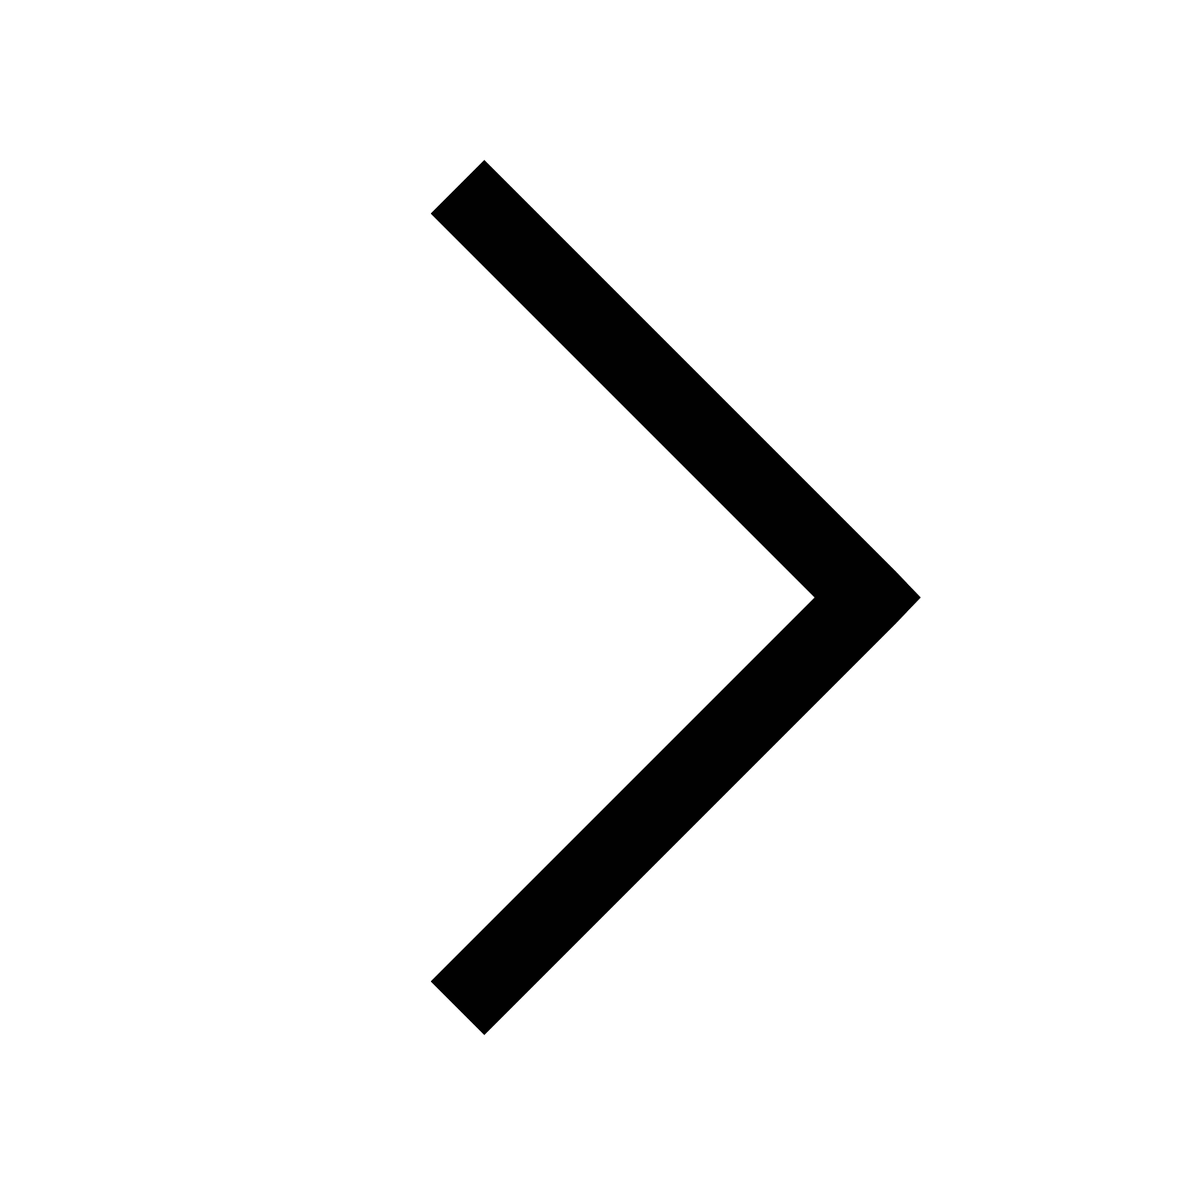
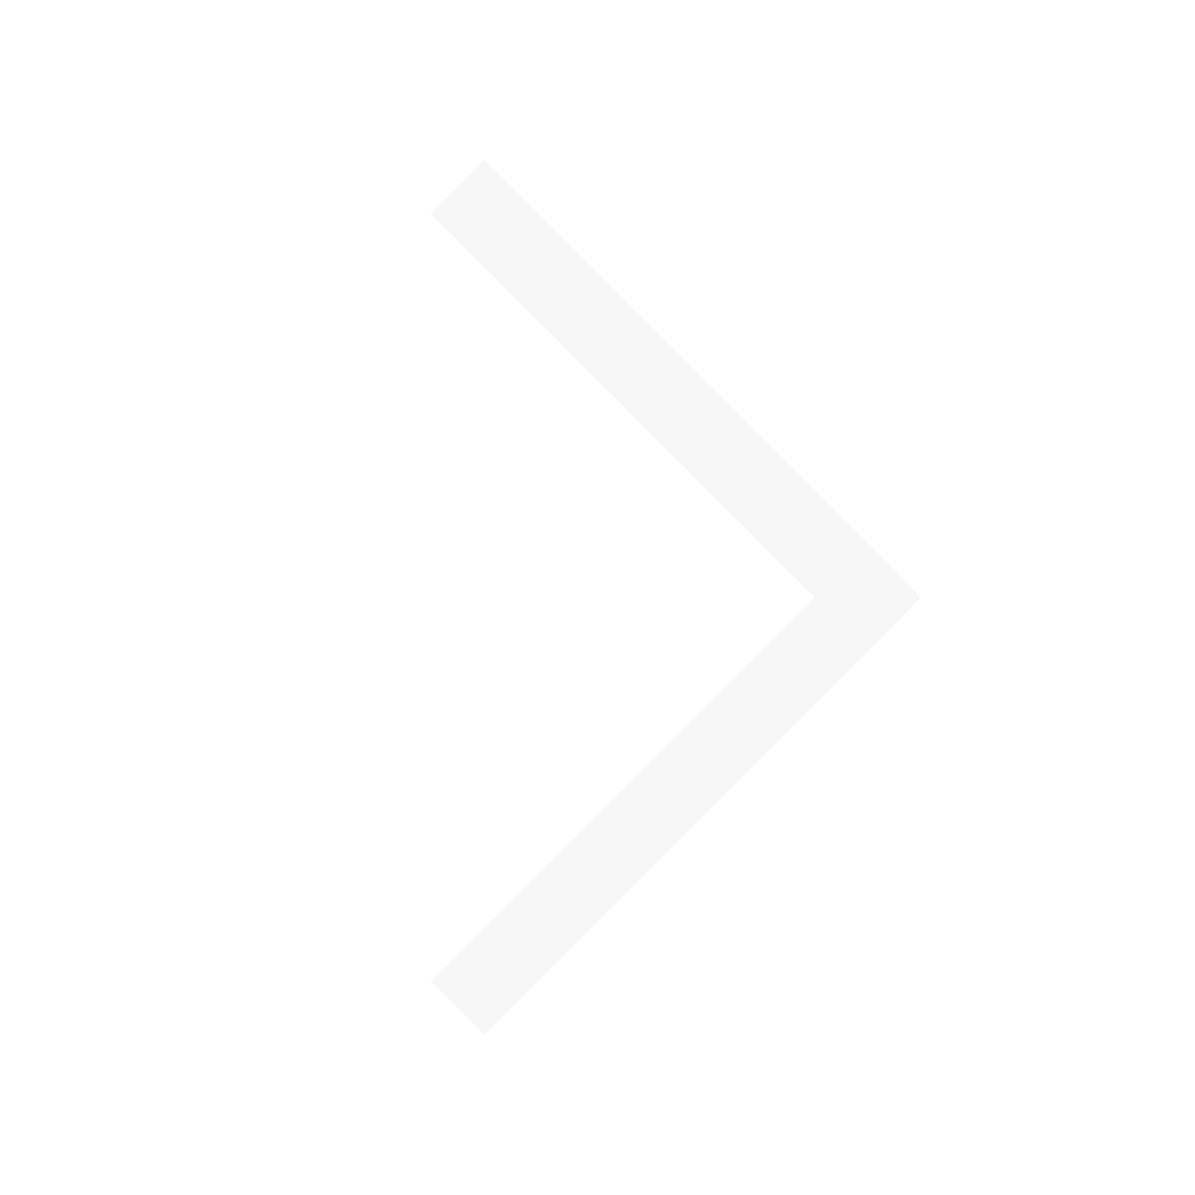
light theme to dark theme

Changed region(s): [[0.3438, 0.125, 0.7812, 0.875]]

diff --git a/src/main/java/dev/serenity/ui/clickgui/element/module/setting/impl/ModeElement.java b/src/main/java/dev/serenity/ui/clickgui/element/module/setting/impl/ModeElement.java
@@ -26,20 +26,20 @@ public class ModeElement extends SettingElement {
         float x1 = right - 60F - Fonts.font20.getStringWidth(StringUtils.findLongestString(modeSetting.modes));
         float x2 = right - 30F;
 
-        Color backgroundColor = new Color(251, 251, 253);
+        Color backgroundColor = new Color(43, 43, 43);
         if (HoveringUtils.isHovering(mouseX, mouseY, left, top, right, y2)) {
-            backgroundColor = new Color(245, 246, 249);
+            backgroundColor = new Color(50, 50, 50);
         }
 
-        RenderUtils.drawRoundedRectWithBorder(left, top, right, y2, 3F, backgroundColor.getRGB(), new Color(225, 230, 234).getRGB(), 0.5F);
+        RenderUtils.drawRoundedRect(left - 0.5F, top - 0.5F, right + 0.5F, y2 + 0.5F, 3F, backgroundColor.getRGB());
 
-        Fonts.font20.drawString(setting.name, left + 15F, (top + y2) / 2 - Fonts.font20.FONT_HEIGHT / 2F + 2F, new Color(26, 27, 27).getRGB());
+        Fonts.font20.drawString(setting.name, left + 15F, (top + y2) / 2 - Fonts.font20.FONT_HEIGHT / 2F + 2F, new Color(255, 255, 255).getRGB());
 
         if (!expanded) {
-            Color accentColor = HoveringUtils.isHovering(mouseX, mouseY, x1, (top + y2) / 2 - 10F, x2 , (top + y2) / 2 + 10F) ? new Color(250, 251, 251) : new Color(254, 254, 254);
+            Color accentColor = HoveringUtils.isHovering(mouseX, mouseY, x1, (top + y2) / 2 - 10F, x2 , (top + y2) / 2 + 10F) ? new Color(60, 60, 60) : new Color(55, 55, 55);
 
-            RenderUtils.drawRoundedRectWithBorder(x1, (top + y2) / 2 - 10F, x2 , (top + y2) / 2 + 10F, 4F, accentColor.getRGB(), new Color(236, 236, 238).getRGB(), 0.75F);
-            Fonts.font20.drawString(modeSetting.getCurrentMode(), x1 + 5F, (top + y2) / 2 - Fonts.font20.FONT_HEIGHT / 2F + 2F , new Color(27, 27, 27).getRGB());
+            RenderUtils.drawRoundedRectWithBorder(x1, (top + y2) / 2 - 10F, x2 , (top + y2) / 2 + 10F, 4F, accentColor.getRGB(), new Color(58, 58, 58).getRGB(), 0.75F);
+            Fonts.font20.drawString(modeSetting.getCurrentMode(), x1 + 5F, (top + y2) / 2 - Fonts.font20.FONT_HEIGHT / 2F + 2F , new Color(255, 255, 255).getRGB());
             RenderUtils.drawImage(location, right - 50F, (top + y2) / 2 - 5F, 10F, 10F);
 
             this.settingHeight = 45F;
@@ -49,19 +49,19 @@ public class ModeElement extends SettingElement {
             float top2 = startY - 7F;
             float bottom2 = startY + 30F * modeSetting.modes.length;
 
-            RenderUtils.drawRoundedRectWithBorder(x1 - 5F, top2,x2 + 5F , bottom2, 4F, new Color(246, 249, 251).getRGB(), new Color(222, 224, 225).getRGB(), 0.5F);
+            RenderUtils.drawRoundedRectWithBorder(x1 - 5F, top2,x2 + 5F , bottom2, 4F, new Color(44, 44, 44).getRGB(), new Color(36, 36, 36).getRGB(), 0.5F);
 
             for (String mode : modeSetting.modes) {
                 if (mode.equals(modeSetting.getCurrentMode())) {
-                    RenderUtils.drawRoundedRect(x1, startY, x2, startY + 24F, 4F, new Color(240, 240, 240).getRGB());
-                    RenderUtils.drawRoundedRect(x1 + 2F, startY + 5F, x1 + 4F, startY + 24F - 5F, 1F, new Color(0, 103, 192).getRGB());
+                    RenderUtils.drawRoundedRect(x1, startY, x2, startY + 24F, 4F, new Color(56, 56, 56).getRGB());
+                    RenderUtils.drawRoundedRect(x1 + 2F, startY + 5F, x1 + 4F, startY + 24F - 5F, 1F, new Color(76, 194, 255).getRGB());
                 } else {
                     if (HoveringUtils.isHovering(mouseX, mouseY, x1, startY, x2, startY + 24F)) {
-                        RenderUtils.drawRoundedRect(x1, startY, x2, startY + 24F, 4F, new Color(239, 239, 239).getRGB());
+                        RenderUtils.drawRoundedRect(x1, startY, x2, startY + 24F, 4F, new Color(56, 56, 56).getRGB());
                     }
                 }
 
-                Fonts.font20.drawString(mode, x1 + 10F, startY + 12F - Fonts.font20.FONT_HEIGHT / 2F + 2F, new Color(25, 25, 26).getRGB());
+                Fonts.font20.drawString(mode, x1 + 10F, startY + 12F - Fonts.font20.FONT_HEIGHT / 2F + 2F, new Color(255, 255, 255).getRGB());
                 startY += 30F;
             }
 

diff --git a/src/main/java/dev/serenity/ui/clickgui/element/module/setting/impl/BooleanElement.java b/src/main/java/dev/serenity/ui/clickgui/element/module/setting/impl/BooleanElement.java
@@ -20,19 +20,19 @@ public class BooleanElement extends SettingElement {
     public void drawElement(int mouseX, int mouseY, float left, float top, float right, float bottom) {
         float y2 = top + settingHeight;
 
-        Color backgroundColor = new Color(251, 251, 253);
+        Color backgroundColor = new Color(43, 43, 43);
         if (HoveringUtils.isHovering(mouseX, mouseY, left, top, right, y2)) {
-            backgroundColor = new Color(245, 246, 249);
+            backgroundColor = new Color(50, 50, 50);
         }
 
-        RenderUtils.drawRoundedRectWithBorder(left, top, right, y2, 3F, backgroundColor.getRGB(), new Color(225, 230, 234).getRGB(), 0.5F);
+        RenderUtils.drawRoundedRect(left - 0.5F, top - 0.5F, right + 0.5F, y2 + 0.5F, 3F, backgroundColor.getRGB());
 
-        Fonts.font20.drawString(setting.name, left + 15F, (top + y2) / 2 - Fonts.font20.FONT_HEIGHT / 2F + 2F, new Color(26, 27, 27).getRGB());
+        Fonts.font20.drawString(setting.name, left + 15F, (top + y2) / 2 - Fonts.font20.FONT_HEIGHT / 2F + 2F, new Color(255, 255, 255).getRGB());
 
         if (booleanSetting.isEnabled()) {
-            Fonts.font20.drawString("On", right - 85F, (top + y2) / 2 - Fonts.font20.FONT_HEIGHT / 2F + 2F, new Color(26, 27, 27).getRGB());
+            Fonts.font20.drawString("On", right - 85F, (top + y2) / 2 - Fonts.font20.FONT_HEIGHT / 2F + 2F, new Color(255, 255, 255).getRGB());
         } else {
-            Fonts.font20.drawString("Off", right - 85F, (top + y2) / 2 - Fonts.font20.FONT_HEIGHT / 2F + 2F, new Color(26, 27, 27).getRGB());
+            Fonts.font20.drawString("Off", right - 85F, (top + y2) / 2 - Fonts.font20.FONT_HEIGHT / 2F + 2F, new Color(255, 255, 255).getRGB());
         }
 
         drawToggleSwitch(mouseX, mouseY,right - 60F, (top + y2) / 2F - 15F/2, 30F, 15F);
@@ -40,11 +40,11 @@ public class BooleanElement extends SettingElement {
 
     public void drawToggleSwitch(int mouseX, int mouseY, float x, float y, float width, float height) {
         boolean state = booleanSetting.isEnabled();
-        Color circleColor = state ? new Color(255, 255, 255) : new Color(107, 108, 108);
+        Color circleColor = state ? new Color(0, 0, 0) : new Color(206, 206, 206);
         float circleX = state ? (x + width - (2F + (height - 4F) / 2F)) : (x + (2F + (height - 4F) / 2F));
-        Color accentColor = HoveringUtils.isHovering(mouseX, mouseY, x, y, x + width, y + height) ? new Color(25, 118, 198) : new Color(0, 103, 192);
-        Color disabledAccentColor = HoveringUtils.isHovering(mouseX, mouseY, x, y, x + width, y + height) ? new Color(235, 237, 238) : new Color(244, 246, 247);
-        Color borderColor = new Color(138, 139, 139);
+        Color accentColor = HoveringUtils.isHovering(mouseX, mouseY, x, y, x + width, y + height) ? new Color(76, 194, 255) : new Color(72, 178, 233);
+        Color disabledAccentColor = HoveringUtils.isHovering(mouseX, mouseY, x, y, x + width, y + height) ? new Color(39, 39, 39) : new Color(52, 52, 52);
+        Color borderColor = new Color(158, 158, 158);
 
         if (state) {
             RenderUtils.drawRoundedRect(x - 0.5F, y - 0.5F, x + width + 0.5F, y + height + 0.5F, height / 2F, accentColor.getRGB());

diff --git a/src/main/java/dev/serenity/ui/clickgui/element/module/ModuleElement.java b/src/main/java/dev/serenity/ui/clickgui/element/module/ModuleElement.java
@@ -5,13 +5,13 @@ import dev.serenity.module.Module;
 import dev.serenity.setting.Setting;
 import dev.serenity.setting.impl.BooleanSetting;
 import dev.serenity.setting.impl.ModeSetting;
+import dev.serenity.setting.impl.NoteSetting;
 import dev.serenity.setting.impl.NumberSetting;
-import dev.serenity.setting.impl.TextSetting;
 import dev.serenity.ui.clickgui.element.CategoryElement;
 import dev.serenity.ui.clickgui.element.module.setting.impl.BooleanElement;
 import dev.serenity.ui.clickgui.element.module.setting.impl.ModeElement;
+import dev.serenity.ui.clickgui.element.module.setting.impl.NoteElement;
 import dev.serenity.ui.clickgui.element.module.setting.impl.NumberElement;
-import dev.serenity.ui.clickgui.element.module.setting.impl.TextElement;
 import dev.serenity.ui.font.Fonts;
 import dev.serenity.utilities.other.HoveringUtils;
 import dev.serenity.utilities.render.RenderUtils;
@@ -30,18 +30,18 @@ public class ModuleElement {
     public void drawElement(int mouseX, int mouseY, float left, float top, float right, float bottom) {
         float y2 = top + 45F;
 
-        Color backgroundColor = new Color(251, 252, 253);
+        Color backgroundColor = new Color(43, 43, 43);
         if (HoveringUtils.isHovering(mouseX, mouseY, left, top, right, y2)) {
-            backgroundColor = new Color(244, 247, 249);
+            backgroundColor = new Color(50, 50, 50);
         }
         if (module.isEnabled()) {
-            backgroundColor = new Color(244, 247, 249, 100);
+            backgroundColor = new Color(80, 80, 80);
         }
 
-        RenderUtils.drawRoundedRectWithBorder(left, top, right, y2, 3F, backgroundColor.getRGB(), new Color(225, 230, 234).getRGB(), 0.5F);
+        RenderUtils.drawRoundedRect(left - 0.5F, top - 0.5F, right + 0.5F, y2 + 0.5F, 3F, backgroundColor.getRGB());
 
-        Fonts.font20.drawString(module.getName(), left + 15F, (top + y2) / 2 - Fonts.font20.FONT_HEIGHT + 2F, new Color(26, 27, 27).getRGB());
-        Fonts.font18.drawString(module.getDescription(), left + 15F, (top + y2) / 2 + 3F, new Color(179, 180, 180).getRGB());
+        Fonts.font20.drawString(module.getName(), left + 15F, (top + y2) / 2 - Fonts.font20.FONT_HEIGHT + 2F, new Color(255, 255, 255).getRGB());
+        Fonts.font18.drawString(module.getDescription(), left + 15F, (top + y2) / 2 + 3F, new Color(208, 208, 208).getRGB());
 
         RenderUtils.drawImage(arrow, right - 20F, (top + y2) / 2 - 5F, 10F, 10F);
     }
@@ -58,8 +58,8 @@ public class ModuleElement {
                     if (setting instanceof BooleanSetting) {
                         CategoryElement.settingElements.add(new BooleanElement((BooleanSetting) setting));
                     }
-                    if (setting instanceof TextSetting) {
-                        CategoryElement.settingElements.add(new TextElement((TextSetting) setting));
+                    if (setting instanceof NoteSetting) {
+                        CategoryElement.settingElements.add(new NoteElement((NoteSetting) setting));
                     }
                     if (setting instanceof NumberSetting) {
                         CategoryElement.settingElements.add(new NumberElement((NumberSetting) setting));

diff --git a/src/main/java/dev/serenity/ui/clickgui/element/CategoryElement.java b/src/main/java/dev/serenity/ui/clickgui/element/CategoryElement.java
@@ -36,18 +36,18 @@ public class CategoryElement {
         float y2 = top + 30F;
 
         if (HoveringUtils.isHovering(mouseX, mouseY, x1, top, x2, y2)) {
-            RenderUtils.drawRoundedRect(x1, top, x2, y2, 6F, new Color(231, 235, 240).getRGB());
+            RenderUtils.drawRoundedRect(x1, top, x2, y2, 6F, new Color(45, 45, 45).getRGB());
         }
 
         handleScrolling(wheel);
 
         if (category == Category.selectedCategory) {
-            RenderUtils.drawRoundedRect(x1, top, x2, y2, 6F, new Color(231, 235, 240).getRGB());
+            RenderUtils.drawRoundedRect(x1, top, x2, y2, 6F, new Color(45, 45, 45).getRGB());
             RenderUtils.drawImage(location, x1 + 15F - 7F, (top + y2) / 2F - 7F, 14F, 14F);
-            Fonts.fontBold20.drawString(category.getName(), x1 + 30F, (top + y2) / 2F - Fonts.fontBold20.FONT_HEIGHT / 2F + 2F, new Color(25, 26, 26).getRGB());
-            RenderUtils.drawRoundedRect(x1 + 2F, top + 5F, x1 + 4F, y2 - 5F, 1F, new Color(0, 103, 192).getRGB());
+            Fonts.fontBold20.drawString(category.getName(), x1 + 30F, (top + y2) / 2F - Fonts.fontBold20.FONT_HEIGHT / 2F + 2F, new Color(255, 255, 255).getRGB());
+            RenderUtils.drawRoundedRect(x1 + 2F, top + 5F, x1 + 4F, y2 - 5F, 1F, new Color(76, 194, 255).getRGB());
 
-            Color textColor = new Color(25, 26, 26);
+            Color textColor = new Color(255, 255, 255);
 
             if (Module.selectedModule == null) {
                 float startY = 120F + Category.selectedCategory.scrollHeight;
@@ -58,10 +58,10 @@ public class CategoryElement {
                     startY += 50F;
                 }
             } else {
-                Fonts.fontBold30.drawString("  >", x2 + 30F + Fonts.fontBold30.getStringWidth(category.getName()), 90F, new Color(100, 103, 105).getRGB());
+                Fonts.fontBold30.drawString("  >", x2 + 30F + Fonts.fontBold30.getStringWidth(category.getName()), 90F, new Color(204, 204, 204).getRGB());
                 Fonts.fontBold30.drawString(Module.selectedModule.getName(), x2 + 30F + Fonts.fontBold30.getStringWidth(category.getName()) + Fonts.fontBold30.getStringWidth("  >  "), 90F, textColor.getRGB());
                 if (!HoveringUtils.isHovering(mouseX, mouseY, x2 + 30F, 90F, x2 + 30F + Fonts.fontBold30.getStringWidth(category.getName()), 90F + Fonts.fontBold30.FONT_HEIGHT)) {
-                    textColor = new Color(170, 174, 178);
+                    textColor = new Color(204, 204, 204);
                 }
 
                 float startY = 120F + Module.selectedModule.settingScrollHeight;
@@ -79,7 +79,7 @@ public class CategoryElement {
             Fonts.fontBold30.drawString(category.getName(), x2 + 30F, 90F, textColor.getRGB());
         } else {
             RenderUtils.drawImage(location, x1 + 15F - 7F, (top + y2) / 2F - 7F, 14F, 14F);
-            Fonts.fontBold20.drawString(category.getName(), x1 + 30F, (top + y2) / 2F - Fonts.fontBold20.FONT_HEIGHT / 2F + 2F, new Color(25, 26, 26).getRGB());
+            Fonts.fontBold20.drawString(category.getName(), x1 + 30F, (top + y2) / 2F - Fonts.fontBold20.FONT_HEIGHT / 2F + 2F, new Color(255, 255, 255).getRGB());
         }
     }
 

diff --git a/src/main/java/dev/serenity/ui/clickgui/element/module/setting/impl/NumberElement.java b/src/main/java/dev/serenity/ui/clickgui/element/module/setting/impl/NumberElement.java
@@ -21,14 +21,14 @@ public class NumberElement extends SettingElement {
     public void drawElement(int mouseX, int mouseY, float left, float top, float right, float bottom) {
         float y2 = top + settingHeight;
 
-        Color backgroundColor = new Color(251, 251, 253);
+        Color backgroundColor = new Color(43, 43, 43);
         if (HoveringUtils.isHovering(mouseX, mouseY, left, top, right, y2)) {
-            backgroundColor = new Color(245, 246, 249);
+            backgroundColor = new Color(50, 50, 50);
         }
 
-        RenderUtils.drawRoundedRectWithBorder(left, top, right, y2, 3F, backgroundColor.getRGB(), new Color(225, 230, 234).getRGB(), 0.5F);
+        RenderUtils.drawRoundedRect(left - 0.5F, top - 0.5F, right + 0.5F, y2 + 0.5F, 3F, backgroundColor.getRGB());
 
-        Fonts.font20.drawString(setting.name, left + 15F, (top + y2) / 2 - Fonts.font20.FONT_HEIGHT / 2F + 2F, new Color(26, 27, 27).getRGB());
+        Fonts.font20.drawString(setting.name, left + 15F, (top + y2) / 2 - Fonts.font20.FONT_HEIGHT / 2F + 2F, new Color(255, 255, 255).getRGB());
 
         float startX = right - 150F;
         float endX = right - 30F;
@@ -42,7 +42,7 @@ public class NumberElement extends SettingElement {
             }
         }
 
-        float currentPosX = startX + range * numberSetting.getValue();
+        float currentPosX = startX + range * numberSetting.getValue() - 7/2F;
 
         String text;
         if ((int) numberSetting.getValue() == numberSetting.getValue()) {
@@ -54,12 +54,11 @@ public class NumberElement extends SettingElement {
 
         Fonts.font20.drawString(text, startX - 20F, (top + y2) / 2 - Fonts.font20.FONT_HEIGHT / 2F + 2F, new Color(180, 179, 180).getRGB());
 
-        RenderUtils.drawRoundedRect(startX + range, (top + y2) / 2F - 1F, currentPosX, (top + y2) / 2F + 1F, 1F, new Color(14, 106, 186).getRGB());
-        RenderUtils.drawRoundedRect(currentPosX, (top + y2) / 2F - 1F, endX, (top + y2) / 2F + 1F, 1F, new Color(139, 139, 140).getRGB());
+        RenderUtils.drawRoundedRect(startX + range, (top + y2) / 2F - 1F, currentPosX, (top + y2) / 2F + 1F, 1F, new Color(76, 194, 255).getRGB());
+        RenderUtils.drawRoundedRect(currentPosX, (top + y2) / 2F - 1F, endX, (top + y2) / 2F + 1F, 1F, new Color(159, 159, 159).getRGB());
 
-        RenderUtils.drawFilledCircle(currentPosX, (top + y2) / 2F, 7F, new Color(227, 227, 229));
-        RenderUtils.drawFilledCircle(currentPosX, (top + y2) / 2F, 6.5F, new Color(255, 255, 255));
-        RenderUtils.drawFilledCircle(currentPosX, (top + y2) / 2F, 3F, new Color(0, 103, 192));
+        RenderUtils.drawFilledCircle(currentPosX, (top + y2) / 2F, 7F, new Color(69, 69, 69));
+        RenderUtils.drawFilledCircle(currentPosX, (top + y2) / 2F, 3F, new Color(76, 194, 255));
 
     }
 }

diff --git a/src/main/java/dev/serenity/ui/clickgui/element/SearchElement.java b/src/main/java/dev/serenity/ui/clickgui/element/SearchElement.java
@@ -23,16 +23,19 @@ public class SearchElement {
 
         searchBox = new GuiTextField(0, Fonts.font20, left + 7, (top + bottom) / 2 - 5, 120, 20, false, true);
         searchBox.setEnableBackgroundDrawing(false);
-        searchBox.setTextColor(new Color(42, 42, 42).getRGB());
     }
 
     public void drawElement(int mouseX, int mouseY, float width, float height, ArrayList<CategoryElement> categoryElements) {
-        RenderUtils.drawRoundedRectWithBorder(left, top, right, bottom, 4F, new Color(250, 252, 253).getRGB(), new Color(224, 230, 234).getRGB(), 0.5F);
+        RenderUtils.drawRoundedRectWithBorder(left, top, right, bottom, 4F, new Color(45, 45, 45).getRGB(), new Color(48, 48, 48).getRGB(), 0.5F);
+        Gui.drawRect(left + 1F, bottom - 1F, right - 1F, bottom, new Color(154, 154, 154).getRGB());
 
         if (searchBox.isFocused()) {
-            Gui.drawRect(left + 1F, bottom - 1F, right - 1F, bottom, new Color(0, 103, 192).getRGB());
+            searchBox.setTextColor(new Color(255, 255, 255).getRGB());
+            RenderUtils.drawRoundedRectWithBorder(left, top, right, bottom, 4F, new Color(31, 31, 31).getRGB(), new Color(48, 48, 48).getRGB(), 0.5F);
+            Gui.drawRect(left + 1F, bottom - 1F, right - 1F, bottom, new Color(76, 194, 255).getRGB());
             searchBox.drawTextBox();
         } else if (searchBox.text.length() == 0) {
+            searchBox.setTextColor(new Color(207, 207, 207).getRGB());
             searchBox.text = "Find a module";
             searchBox.drawTextBox();
             searchBox.text = "";
@@ -41,7 +44,7 @@ public class SearchElement {
         }
 
         if (searched) {
-            Fonts.fontBold30.drawString("Search results", this.left, 90F, new Color(25, 26, 26).getRGB());
+            Fonts.fontBold30.drawString("Search results", this.left, 90F, new Color(255, 255, 255).getRGB());
 
             float count = this.bottom + 20F;
             int results = 0;
@@ -59,7 +62,7 @@ public class SearchElement {
 
             if (!searchBox.text.isEmpty()) {
                 if (results == 0) {
-                    Fonts.font20.drawString("No results for " + searchBox.text, this.left, this.bottom + 15F, new Color(25, 26, 26).getRGB());
+                    Fonts.font20.drawString("No results for " + searchBox.text, this.left, this.bottom + 15F, new Color(255, 255, 255).getRGB());
                 }
             }
 

diff --git a/src/main/java/dev/serenity/ui/clickgui/ClickGui.java b/src/main/java/dev/serenity/ui/clickgui/ClickGui.java
@@ -35,11 +35,11 @@ public class ClickGui extends GuiScreen {
 
     @Override
     public void drawScreen(int mouseX, int mouseY, float partialTicks) {
-        RenderUtils.drawRoundedRect(150F, 60F, this.width - 150F, this.height - 60F, 4F, new Color(239, 244, 249).getRGB());
+        RenderUtils.drawRoundedRect(150F, 60F, this.width - 150F, this.height - 60F, 4F, new Color(32, 32, 32).getRGB());
 
         // player avatar
         Stencil.write(true);
-        RenderUtils.drawFilledCircle(184F, 105F, 25F, new Color(239, 244, 249));
+        RenderUtils.drawFilledCircle(184F, 105F, 25F, new Color(45, 45, 45));
         Stencil.erase(true);
         if (mc.getNetHandler().getPlayerInfo(mc.thePlayer.getUniqueID()) != null) {
             final ResourceLocation skin = mc.getNetHandler().getPlayerInfo(mc.thePlayer.getUniqueID()).getLocationSkin();
@@ -60,7 +60,7 @@ public class ClickGui extends GuiScreen {
         }
         Stencil.dispose();
 
-        Fonts.fontBold30.drawString(mc.thePlayer.getGameProfile().getName(), 215F, (60 + 150) / 2F - Fonts.fontBold30.FONT_HEIGHT / 2F + 2F , new Color(25, 26, 26).getRGB());
+        Fonts.fontBold30.drawString(mc.thePlayer.getGameProfile().getName(), 215F, (60 + 150) / 2F - Fonts.fontBold30.FONT_HEIGHT / 2F + 2F , new Color(255, 255, 255).getRGB());
 
         searchElement.drawElement(mouseX, mouseY, this.width - 150F, this.height - 60F, categoryElements);
 

diff --git a/src/main/java/dev/serenity/ui/clickgui/element/module/setting/impl/NoteElement.java b/src/main/java/dev/serenity/ui/clickgui/element/module/setting/impl/NoteElement.java
@@ -1,23 +1,23 @@
 package dev.serenity.ui.clickgui.element.module.setting.impl;
 
-import dev.serenity.setting.impl.TextSetting;
+import dev.serenity.setting.impl.NoteSetting;
 import dev.serenity.ui.clickgui.element.module.setting.SettingElement;
 import dev.serenity.ui.font.Fonts;
 
 import java.awt.*;
 
-public class TextElement extends SettingElement {
-    private final TextSetting textSetting;
+public class NoteElement extends SettingElement {
+    private final NoteSetting noteSetting;
 
-    public TextElement(TextSetting textSetting) {
-        super(textSetting);
-        this.textSetting = textSetting;
+    public NoteElement(NoteSetting noteSetting) {
+        super(noteSetting);
+        this.noteSetting = noteSetting;
         this.settingHeight = 30F;
     }
 
     @Override
     public void drawElement(int mouseX, int mouseY, float left, float top, float right, float bottom) {
         float y2 = top + settingHeight - Fonts.font20.FONT_HEIGHT;
-        Fonts.font20.drawString(textSetting.name, left + 2F, y2, new Color(25, 26, 26).getRGB());
+        Fonts.font20.drawString(noteSetting.name, left + 2F, y2, new Color(255, 255, 255).getRGB());
     }
 }

diff --git a/src/main/java/dev/serenity/module/impl/movement/Sprint.java b/src/main/java/dev/serenity/module/impl/movement/Sprint.java
@@ -3,12 +3,17 @@ package dev.serenity.module.impl.movement;
 import dev.serenity.event.impl.UpdateEvent;
 import dev.serenity.module.Category;
 import dev.serenity.module.Module;
+import dev.serenity.setting.impl.BooleanSetting;
+import dev.serenity.setting.impl.ModeSetting;
 import dev.serenity.setting.impl.NumberSetting;
 import dev.serenity.utilities.player.MovementUtils;
 import org.lwjgl.input.Keyboard;
 
 public class Sprint extends Module {
     private NumberSetting test = new NumberSetting("test", 2, 2, 20, 0.5F, this);
+    private ModeSetting test3 = new ModeSetting("test", new String[]{"1", "2", "3"}, "1", this);
+    private BooleanSetting test2 = new BooleanSetting("test", false, this);
+
     public Sprint() {
         super("Sprint", "Automatically sprints all the time.", Category.MOVEMENT, Keyboard.KEY_NONE, true);
     }

diff --git a/src/main/java/dev/serenity/setting/impl/NoteSetting.java b/src/main/java/dev/serenity/setting/impl/NoteSetting.java
@@ -5,14 +5,14 @@ import dev.serenity.setting.Setting;
 
 import java.util.function.Supplier;
 
-public class TextSetting extends Setting {
-    public TextSetting(String setting, Module module) {
+public class NoteSetting extends Setting {
+    public NoteSetting(String setting, Module module) {
         this.name = setting;
         module.settings.add(this);
         this.canDisplay = () -> true;
     }
 
-    public TextSetting(String setting, Module module, Supplier<Boolean> displayable) {
+    public NoteSetting(String setting, Module module, Supplier<Boolean> displayable) {
         this.name = setting;
         module.settings.add(this);
         this.canDisplay = displayable;

diff --git a/src/main/java/net/minecraft/client/gui/GuiTextField.java b/src/main/java/net/minecraft/client/gui/GuiTextField.java
@@ -650,7 +650,7 @@ public class GuiTextField extends Gui
         Tessellator tessellator = Tessellator.getInstance();
         WorldRenderer worldrenderer = tessellator.getWorldRenderer();
         if (blue) {
-            GlStateManager.color(0, 103/255F, 192/255F);
+            GlStateManager.color(0, 120/255F, 212/255F);
         } else {
             GlStateManager.color(0.0F, 0.0F, 255.0F, 255.0F);
         }
